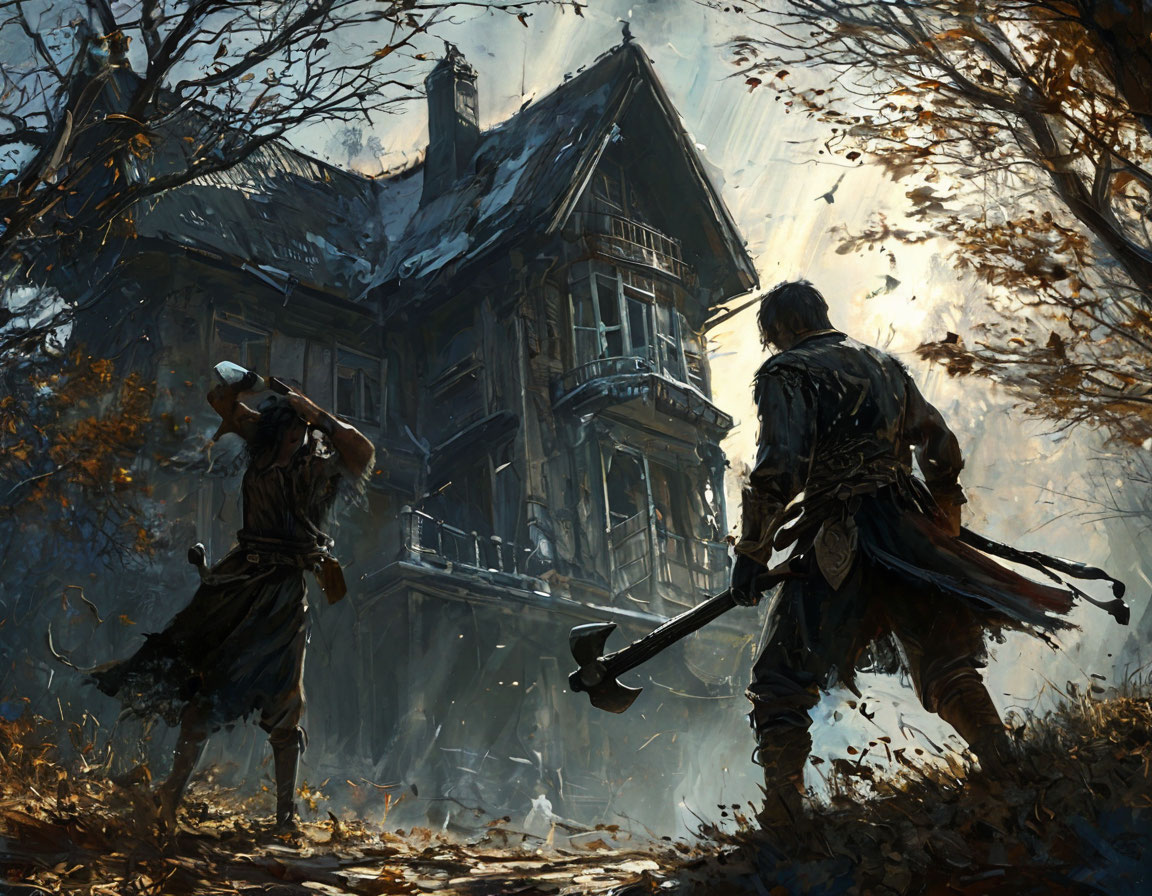
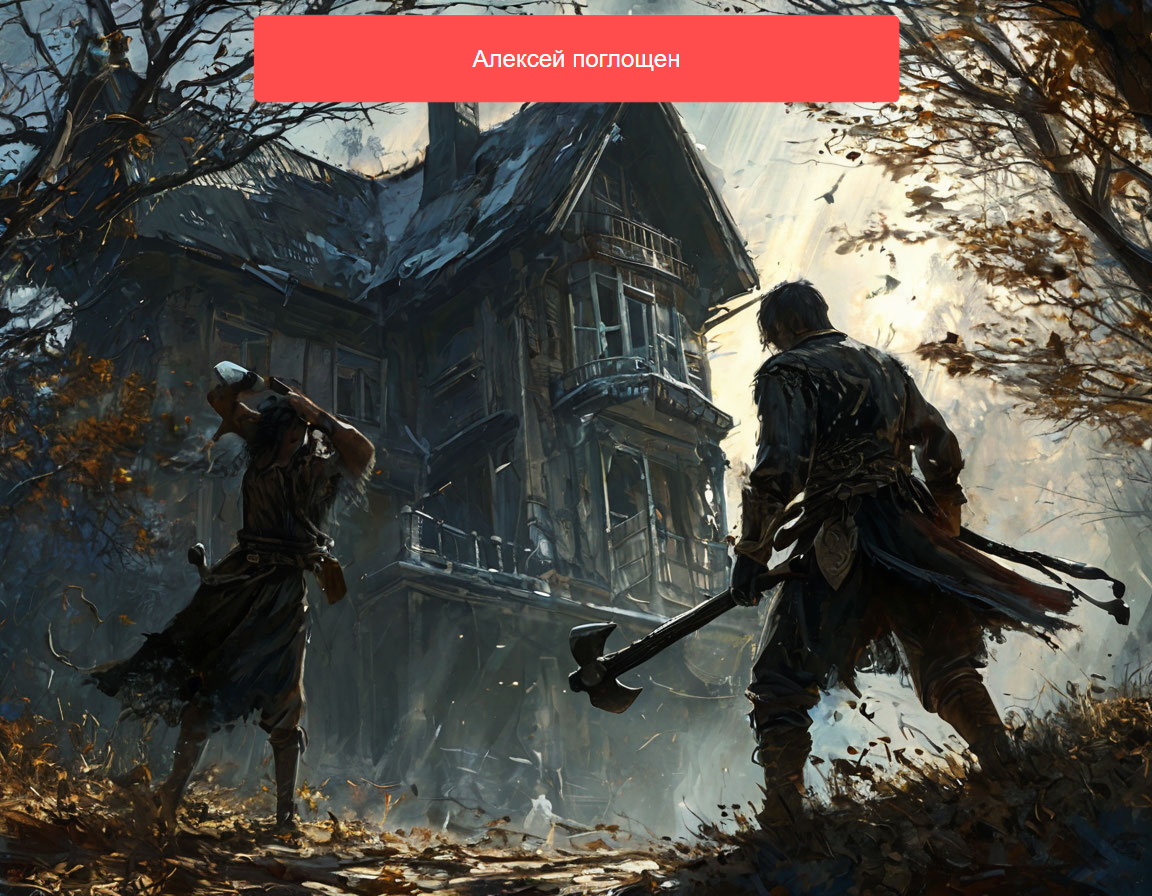
Version 1.4.2
Maybe final version?

Changed region(s): [[0.2188, 0.0, 0.7812, 0.125]]

diff --git a/js/script.js b/js/script.js
@@ -100,7 +100,7 @@ let steps = [ //Массив со всеми этапами сюжета
               с его плеч. Он вышел из дома, и на этот раз лес не казался таким мрачным. Он нашел дорогу\
                домой. Но на следующий день Алексей узнал, что его друг, подаривший ему наручные часы,\
                 погиб в автокатастрофе. Алексей понял, что ритуал забрал жизнь вместо его собственной.\
-                 Он был свободен, но цена оказалась слишком высокой.", image: "assets/images/final_8.jpg", choices: [] //Концовка
+                 Он был свободен, но цена оказалась слишком высокой.", image: "assets/images/final_8.jpg", choices: [] //Нейтральная концовка
   },
   {
     text: "Алексей прячется под старым пыльным столом. Тень входит в комнату. Она медленно движется,\
@@ -110,7 +110,7 @@ let steps = [ //Массив со всеми этапами сюжета
             Время тянется бесконечно. Алексей не знает, сколько он пробыл под столом – минуты, часы, дни. Он боится\
              пошевелиться, боится выдать себя. В какой-то момент тень, не обнаружив его, покидает комнату. Алексей\
               дожидается, пока все стихнет, и выбирается из-под стола. Он находит окно, выбивает доски и сбегает\
-               из дома", image: "assets/images/final_9.jpg", choices: [] //Концовка
+               из дома.", image: "assets/images/final_9.jpg", choices: [] //Хорошая концовка
   },
   {
     text: "Алексей, поддавшись инстинкту самосохранения, бросился к входной двери. Тень метнулась за ним,\
@@ -119,14 +119,14 @@ let steps = [ //Массив со всеми этапами сюжета
            подобрали, отвезли в ближайший город. Алексей так и не смог объяснить, что произошло в том доме. Он\
             пытался найти его снова, но лес выглядел совсем по-другому, а дома там не было. С тех пор Алексей\
              больше никогда не ходил в лес один. Он знал, что дом Потерянных Душ все еще существует, где-то там,\
-              за гранью реальности, и ждет своих новых жертв.", image: "assets/images/final_10.jpg", choices: [] //Концовка
+              за гранью реальности, и ждет своих новых жертв.", image: "assets/images/final_10.jpg", choices: [] //Хорошая концовка
   },
   {
     text: "Алексей бросается на тень, нанося удар за ударом. Все они безуспешны, проходят сквозь тень, не\
          причиняя ей вреда. Она не реагирует на физическое воздействие. Тень обволакивает Алексея, проникая в\
           его сознание. Он чувствует леденящий холод, страх, отчаяние. Тень начинает питаться его жизненной силой.\
            Он не может сопротивляться. Его разум и тело слабеют. Он становится частью дома, его душа\
-            поглощается тенью.", image: "assets/images/final_11.jpg", choices: [] //Концовка
+            поглощается тенью.", image: "assets/images/final_11.jpg", choices: [] //Плохая концовка
   },
 ];
 function update_text(id, text) { //Обновление текста этапа
